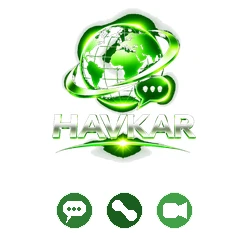
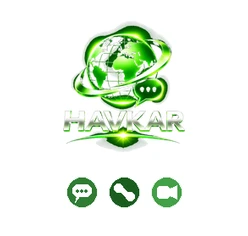
Remove Owner personal phone from public Support contacts.
Public Support now lists only info@ and support@ addresses; personal
tel links are gone. Messenger tile padding tightened on white.

diff --git a/support.html b/support.html
@@ -1193,13 +1193,12 @@ textarea:focus-visible{
                 </a>
 
                 <p class="official-contact-text">
-                    Business phone:
-                    <a href="tel:+393342632863">+39 334 263 2863</a>.
                     Public contacts:
                     <a href="mailto:info@havkar.online">info@havkar.online</a>
                     (commercial),
                     <a href="mailto:support@havkar.online">support@havkar.online</a>
                     (user assistance).
+                    Personal phone numbers and Owner login details are never shown here.
                 </p>
 
                 <p class="official-contact-text">
@@ -1392,7 +1391,7 @@ textarea:focus-visible{
             </div>
 
             <div class="method-description">
-                +39 334 263 2863
+                Available soon via official support email
             </div>
 
         </button>
